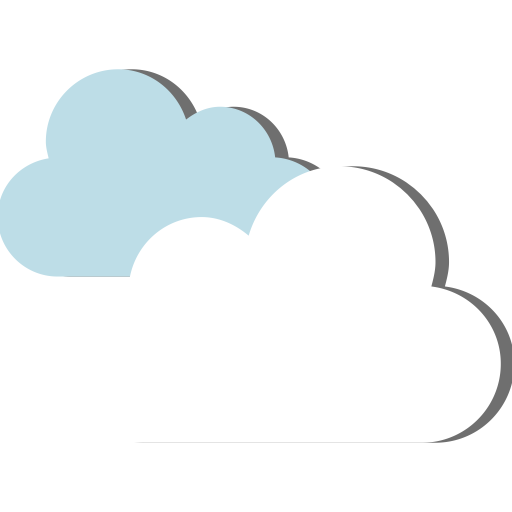
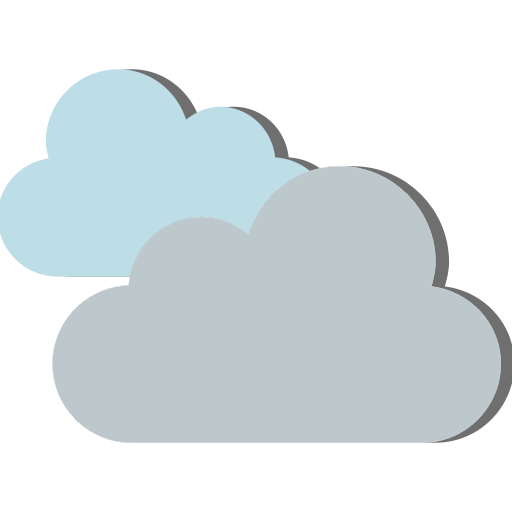
Small visual changes

diff --git a/weather-app/src/components/WeatherForecast.js b/weather-app/src/components/WeatherForecast.js
@@ -27,7 +27,6 @@ const useStyles = makeStyles((theme) => ({
     height: theme.spacing(18) * 4,
     padding: theme.spacing(2),
     spacing: theme.spacing(2),
-    backgroundColor: "#F2F6F7",
   },
 }));
 
@@ -39,13 +38,13 @@ export default function WeatherForecast() {
     let pic;
     switch (weather) {
       case "Clouds":
-        pic = cloud;
+        pic = cloudy;
         break;
       case "Clear":
         pic = clear;
         break;
       case "Drizzle":
-        pic = cloudy;
+        pic = rainbow;
         break;
       case "Rain":
         pic = rain;
